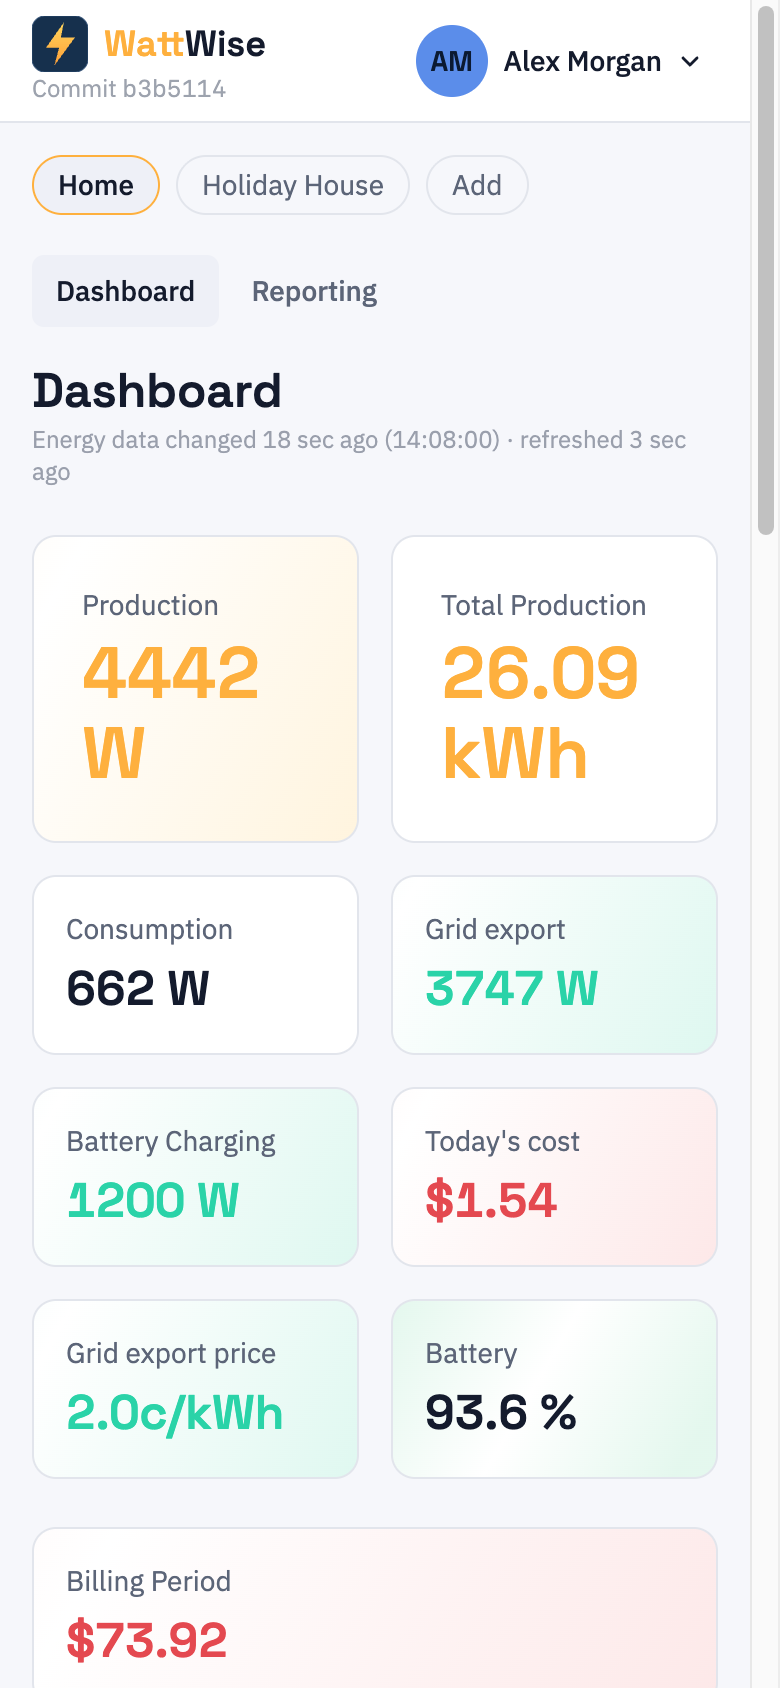
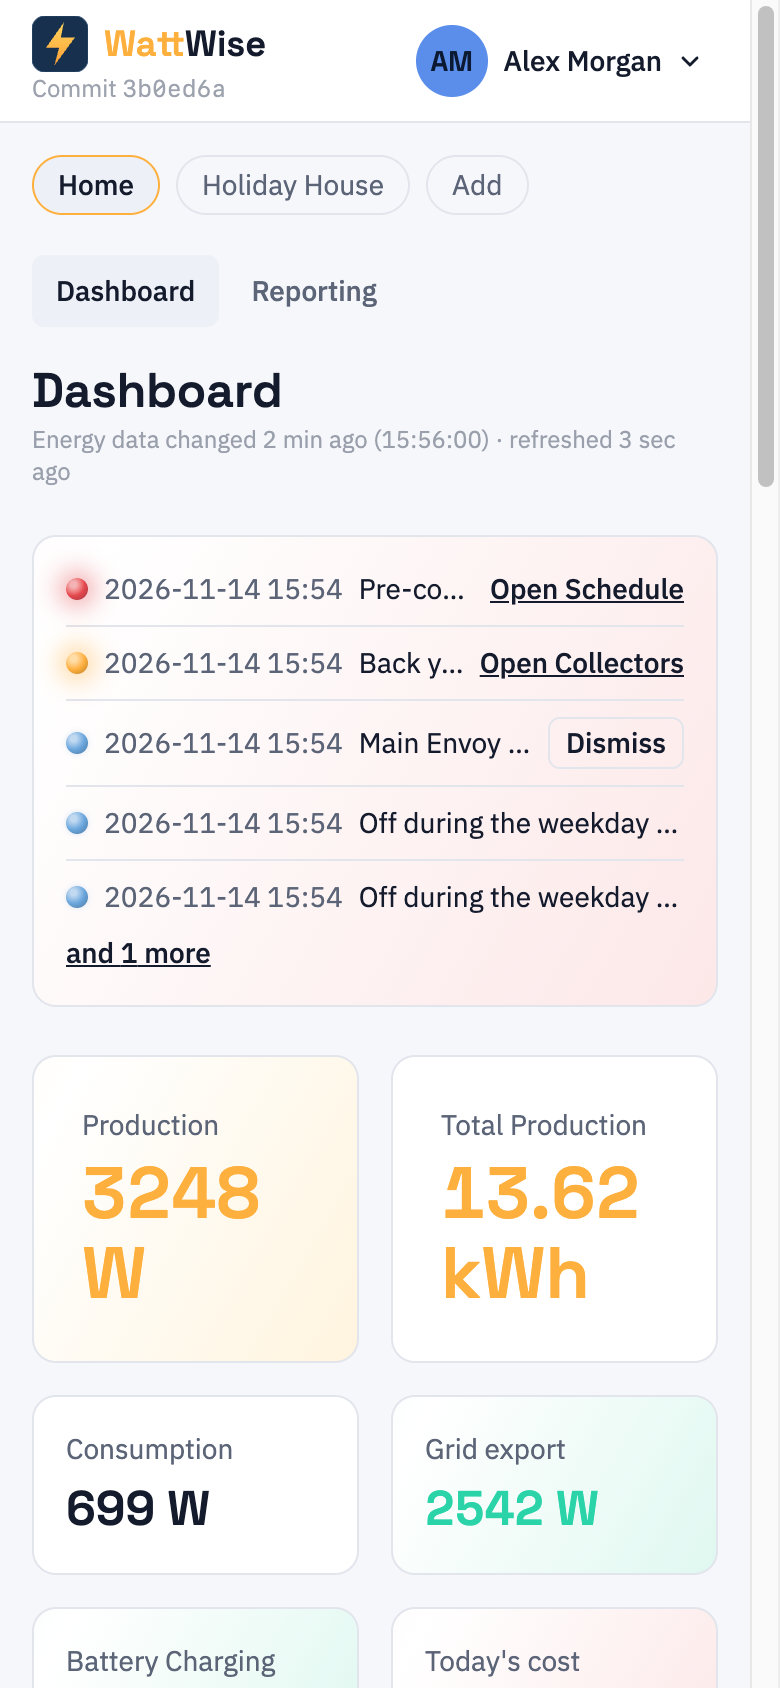
docs: retake screenshots for the log, location, sun times and limits
The demo seed gives the site a location and gives the second schedule a
time-of-day row and limits. The schedule capture covers steps 3 to 7 and
the run history in its new place; live tiles now exclude the log. Image
descriptions match the new pictures. The About dialog, billing, reporting,
account and TOTP images are unchanged.

diff --git a/scripts/docs-screenshots/actor_seed.py b/scripts/docs-screenshots/actor_seed.py
@@ -29,10 +29,12 @@ elif stage == "ready":
       "zone_ranges_c": {"Study": [20.0, 26.0], "Family": [20.0, 26.0], "Bedrooms": [20.0, 26.0]}, "setpoint_min_c": 16.0, "setpoint_max_c": 30.0, "updated_at": iso(NOW)}})
     s1 = user("POST", f"/sites/{sid}/actors/schedules", {"instance_id": iid, "name": "Off during the weekday peak", "trigger": {"type": "window_start", "window_id": ids["window"]},
       "conditions": [{"reading": "outdoor_temp_c", "op": "lt", "value": 35.0, "target": None, "enabled": True}, {"kind": "months", "op": "in", "values": [11, 12, 1, 2, 3], "enabled": True}],
-      "actions": [{"id": "system_off", "params": {}}], "restore": {"enabled": True, "when": "window_end"}, "notify_email": True})
+      "actions": [{"id": "system_off", "params": {}}], "restore": {"enabled": True, "when": "window_end"}, "limits": {"min_gap_minutes": 30}, "notify_email": True})
     s2 = user("POST", f"/sites/{sid}/actors/schedules", {"instance_id": iid, "name": "Pre-cool before the peak", "trigger": {"type": "time", "time": "14:30", "days_of_week": [0, 1, 2, 3, 4]},
-      "conditions": [{"reading": "outdoor_temp_c", "op": "gt", "value": 28.0, "target": None, "enabled": True}],
-      "actions": [{"id": "set_temperature", "params": {"temperature_c": 22.0}}], "restore": {"enabled": True, "when": "after_minutes", "minutes": 90}})
+      "conditions": [{"reading": "outdoor_temp_c", "op": "gt", "value": 28.0, "target": None, "enabled": True},
+                     {"kind": "time_of_day", "start": {"kind": "sun", "event": "sunrise", "offset_minutes": 60}, "end": {"kind": "sun", "event": "sunset", "offset_minutes": -60}, "enabled": True}],
+      "actions": [{"id": "set_temperature", "params": {"temperature_c": 22.0}}], "restore": {"enabled": True, "when": "after_minutes", "minutes": 90},
+      "limits": {"min_gap_minutes": 30, "run_again_after": {"kind": "sun", "event": "sunrise", "offset_minutes": 0}}})
     ids.update(s1=s1["id"], s2=s2["id"]); json.dump(ids, open("ids.json", "w")); print(s1["id"], s2["id"])
 elif stage == "runs":
     iid = ids["instance"]

diff --git a/scripts/docs-screenshots/capture_sched.py b/scripts/docs-screenshots/capture_sched.py
@@ -6,10 +6,14 @@ def scrolled(name, y, h):
     cdp("Emulation.setDeviceMetricsOverride", width=1280, height=h, deviceScaleFactor=2, mobile=False); time.sleep(0.4)
     js(f"window.scrollTo(0,{y})"); time.sleep(0.6)
     capture_screenshot(OUT + name + ".png"); js("window.scrollTo(0,0)"); setup()
-scrolled("schedule-editor", 610, 1180)
-scrolled("schedule-run-history", 1975, 720)
+# The second schedule has a time-of-day row, a minimum gap and a run-again-after time, so steps 3 to 7 show them.
+js("[...document.querySelectorAll('button')].find(b=>b.innerText.includes('Pre-cool')).click()"); time.sleep(1.5)
+scrolled("schedule-editor", 610, 1600)
+# Run history sits in the schedule card under Test now; the unit state is the card after it.
+r = js("(()=>{const t=[...document.querySelectorAll('button')].find(b=>b.innerText.trim()==='Test now'); const card=t.closest('section').getBoundingClientRect(); const last=[...document.querySelectorAll('h2')].find(h=>h.innerText.trim()==='Air conditioner').closest('[class*=rounded]').getBoundingClientRect(); const top=t.getBoundingClientRect().top+scrollY-12; return [card.left-4, top, card.width+8, last.bottom+scrollY+4-top]})()")
+clip("schedule-run-history", r[0], r[1], r[2], r[3])
 go("http://localhost:5173/sites/1", 4); shot("dashboard-needs-attention", 640)
-go("http://localhost:5173/settings/sites/1/general", 3); shot("settings-general", 560)
+go("http://localhost:5173/settings/sites/1/general", 3); shot("settings-general", 1040)
 go("http://localhost:5173/settings/sites/1/sharing", 3); shot("settings-sharing", 560)
 go("http://localhost:5173/account", 3)
 js("[...document.querySelectorAll('button')].find(b=>b.innerText.includes('Alex Morgan')).click()"); time.sleep(0.8)

diff --git a/scripts/docs-screenshots/capture_dash4.py b/scripts/docs-screenshots/capture_dash4.py
@@ -2,7 +2,7 @@ import os
 exec(open(os.path.join(os.getcwd(), "scripts/docs-screenshots/shot.py")).read())
 setup(); go("http://localhost:5173/sites/1", 5)
 capture_screenshot(OUT + "dashboard-overview.png", full=True)
-r = js("(()=>{const h=document.querySelector('h1'); let col=h.parentElement; while(col.children.length<4) col=col.parentElement; const first=col.children[1].getBoundingClientRect(); const w=[...document.querySelectorAll('p,div,span')].find(x=>x.children.length==0 && x.innerText.trim()==='Weather').getBoundingClientRect(); return [first.x,first.y+scrollY,first.width,first.height,w.y+scrollY]})()")
+r = js("(()=>{const h=document.querySelector('h1'); let col=h.parentElement; while(col.children.length<4) col=col.parentElement; const first=col.children[1].getBoundingClientRect(); const log=document.querySelector('section[aria-label^=Schedule]'); const top=log?log.getBoundingClientRect().bottom+scrollY+24:first.y+scrollY; const w=[...document.querySelectorAll('p,div,span')].find(x=>x.children.length==0 && x.innerText.trim()==='Weather').getBoundingClientRect(); return [first.x,top,first.width,first.y+scrollY+first.height-top,w.y+scrollY]})()")
 print(r)
 x,y,w,h,wy = r
 clip("dashboard-live-tiles", x, y, w, wy - y - 6)

diff --git a/scripts/docs-screenshots/seed2.py b/scripts/docs-screenshots/seed2.py
@@ -2,6 +2,7 @@ from lib import *
 random.seed(7)
 user("PATCH", "/users/me/profile", {"display_name": "Alex Morgan"})
 sid = user("POST", "/sites", {"name": "Home", "timezone": "Australia/Sydney"})["id"]
+user("PATCH", f"/sites/{sid}", {"latitude": -33.8688, "longitude": 151.2093})
 envoy = user("POST", f"/sites/{sid}/sources", {"kind": "energy", "provider": "envoy", "name": "Main Envoy", "config": {"host": "192.168.1.50", "token": "demo-token", "serial_num": "122200000000"}})
 amber = user("POST", f"/sites/{sid}/sources", {"kind": "pricing", "provider": "amber", "name": "Amber", "config": {"amber_site_id": "01ABCDEFGHJKMNPQRSTVWXYZ00"}})
 wx = user("POST", f"/sites/{sid}/sources", {"kind": "weather", "provider": "weatherlink_live", "name": "Back yard station", "config": {"host": "192.168.1.60"}})

diff --git a/webapp/src/docs/08-schedules.md b/webapp/src/docs/08-schedules.md
@@ -27,7 +27,7 @@ Click **New schedule**. The form has numbered steps. Click **Save schedule** at 
 
 ![The Schedule tab with two schedules listed and the first one open in the editor](images/schedule-list.png)
 
-![Steps 3 to 6 of the editor: Only if, Do this, When it ends and If it fails](images/schedule-editor.png)
+![Steps 3 to 7 of the editor: Only if with a time of day row, Do this, When it ends, How often and If it fails](images/schedule-editor.png)
 
 | Step | What you choose |
 |------|-----------------|
@@ -114,7 +114,7 @@ The bottom of the schedule's card, under **Test now**, lists that schedule's new
 
 If one action of several fails, the others still run and the run is recorded as partial, with the failed action named.
 
-![The air conditioner's current state, each zone and the run history](images/schedule-run-history.png)
+![The Test now button and run history at the bottom of a schedule, then the air conditioner's current state and each zone](images/schedule-run-history.png)
 
 The unit's current state, with each zone, is shown in its own card below the schedule. It reads **Not updating** when the actor has not reported for 2 minutes.
 

diff --git a/webapp/src/docs/04-sites.md b/webapp/src/docs/04-sites.md
@@ -42,7 +42,7 @@ Use the site switcher at the top of the sidebar. Pick a site name to open its da
 
 Click your name in the top right corner, then **Site settings**, to open the Settings page (`/settings`). It lists every site you own or have been given access to, including disabled ones.
 
-![Site settings with the General tab open and the Home site selected](images/settings-general.png)
+![The General tab with the name, time zone, latitude and longitude, a map with the site pinned in Sydney and today's sunrise and sunset](images/settings-general.png)
 
 - **Site chips** run along the top, one per site, with **Add** at the end. A disabled site is dimmed with a dashed border.
 - **Tabs** run down the left: **General**, **Collectors**, **Tariffs**, **Billing**, **Schedule** and **Sharing**. The selected site and tab are in the address, so you can bookmark a tab.
